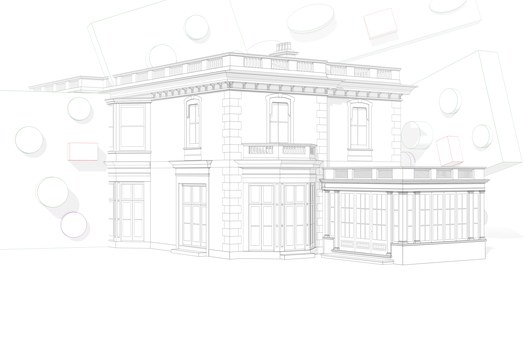
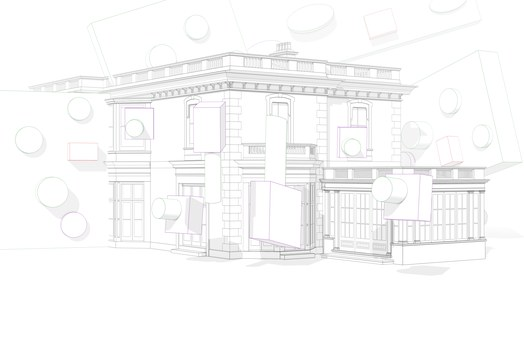
Working Test

diff --git a/WebApps/ValeVision3D/02__Src__AppModules/69__System__SketchUpToValeVision__Utilities/Na__SketchUp__ConvertSceneData__.js b/WebApps/ValeVision3D/02__Src__AppModules/69__System__SketchUpToValeVision__Utilities/Na__SketchUp__ConvertSceneData__.js
@@ -47,6 +47,21 @@
 // - Stores the RELATIVE 524p thumbnail filename so the carousel handles the
 //   R2-first + GH-fallback resolution.
 //
+// 25-Jun-2026 - Version 1.0.2
+// - ConvertBlock now emits ShowCarouselByDefault: true (and AutoPlayEnabledBy
+//   Default: false) so SketchUp-driven scenes auto-show their carousel on load,
+//   matching the localhost dev-menu BuildDefaultConfig behaviour. Previously the
+//   carousel was built but left hidden until the user clicked Views.
+// - ConvertBlock now requires MORE THAN ONE scene (length >= 2) before
+//   activating Presentation Mode; a single SketchUp camera no longer triggers it.
+//
+// 25-Jun-2026 - Version 1.0.3
+// - Carousel card name now prefers the SketchUp scene DESCRIPTION (e.g.
+//   "Shot-01 | Garden", captured by the Cloud Sync plugin as scene_description)
+//   instead of the raw IMG## page name. Falls back to the page name, then a
+//   generic "Scene N" label. scene_name is unchanged so image/thumbnail file
+//   matching and IMG## ordering remain intact.
+//
 // =============================================================================
 
 
@@ -88,6 +103,7 @@
         const fovVertical = na_vertical_fov(cam);
         const sceneNumber = na_scene_number_from_name(sceneEntry.scene_name, sceneIndex); // <-- IMG## number or index+1
         const sceneId     = `${Na__SketchUp__Convert__SCENE_ID_PREFIX}${sceneNumber}`;
+        const sceneName   = na_scene_display_name(sceneEntry, sceneNumber);   // <-- SketchUp scene description preferred
 
         // NOTE: Under OrbitControls the camera framing is driven by the orbit
         // target (PresentationMode__Scene__OrbitHelperCubePosition), which the
@@ -96,7 +112,7 @@
         // part of the runtime schema and is intentionally omitted.
         return {
             PresentationMode__Scene__Id        : sceneId,                    // <-- Stable ID keyed off IMG## number
-            PresentationMode__Scene__Name      : sceneEntry.scene_name || `Scene ${sceneNumber}`,
+            PresentationMode__Scene__Name      : sceneName,                  // <-- Scene description (falls back to page name)
             PresentationMode__Scene__Order     : sceneNumber,                // <-- Preserve SketchUp IMG## order
             PresentationMode__Scene__ThumbnailUrl : thumbName || '',         // <-- Relative 524p thumbnail filename
             PresentationMode__Scene__CameraPosition: {
@@ -147,13 +163,15 @@
             ))
             .filter(Boolean);                                                // <-- Discard any null entries
 
-        if (convertedScenes.length === 0) return null;
+        if (convertedScenes.length < 2) return null;                          // <-- Only activate for MORE THAN ONE SketchUp camera
 
         return {
-            PresentationMode__SavedCameraScenes__Enabled        : true,
-            PresentationMode__SavedCameraScenes__Source         : 'SketchUpCameraData', // <-- Provenance marker
-            PresentationMode__SavedCameraScenes__DefaultSceneId : convertedScenes[0].PresentationMode__Scene__Id,
-            PresentationMode__SavedCameraScenes__Scenes         : convertedScenes
+            PresentationMode__SavedCameraScenes__Enabled                 : true,
+            PresentationMode__SavedCameraScenes__Source                  : 'SketchUpCameraData', // <-- Provenance marker
+            PresentationMode__SavedCameraScenes__ShowCarouselByDefault   : true,  // <-- Carousel auto-shows (parity with dev-menu BuildDefaultConfig)
+            PresentationMode__SavedCameraScenes__AutoPlayEnabledByDefault: false, // <-- No auto slideshow (parity with dev menu)
+            PresentationMode__SavedCameraScenes__DefaultSceneId          : convertedScenes[0].PresentationMode__Scene__Id,
+            PresentationMode__SavedCameraScenes__Scenes                  : convertedScenes
         };
     }
     // ------------------------------------------------------------
@@ -177,6 +195,26 @@
             if (Number.isFinite(parsed) && parsed > 0) return parsed;        // <-- Use the IMG## number
         }
         return sceneIndex + 1;                                               // <-- Fallback to capture order
+    }
+
+    // HELPER FUNCTION | Resolve the Carousel Card Display Name
+    // ------------------------------------------------------------
+    // Prefers the SketchUp scene DESCRIPTION (e.g. "Shot-01 | Garden") so the
+    // carousel card reads cleanly instead of the raw IMG## page name. Falls
+    // back to the page name, then a generic "Scene N" label when both blank.
+    // ------------------------------------------------------------
+    function na_scene_display_name(sceneEntry, sceneNumber) {
+        const description = typeof sceneEntry.scene_description === 'string'
+            ? sceneEntry.scene_description.trim()
+            : '';
+        if (description) return description;                                 // <-- Use SketchUp scene description
+
+        const pageName = typeof sceneEntry.scene_name === 'string'
+            ? sceneEntry.scene_name.trim()
+            : '';
+        if (pageName) return pageName;                                       // <-- Fall back to raw page name
+
+        return `Scene ${sceneNumber}`;                                      // <-- Last-resort generic label
     }
 
     // HELPER FUNCTION | Apply SketchUp Z-up -> Three.js Y-up Axis Swap
